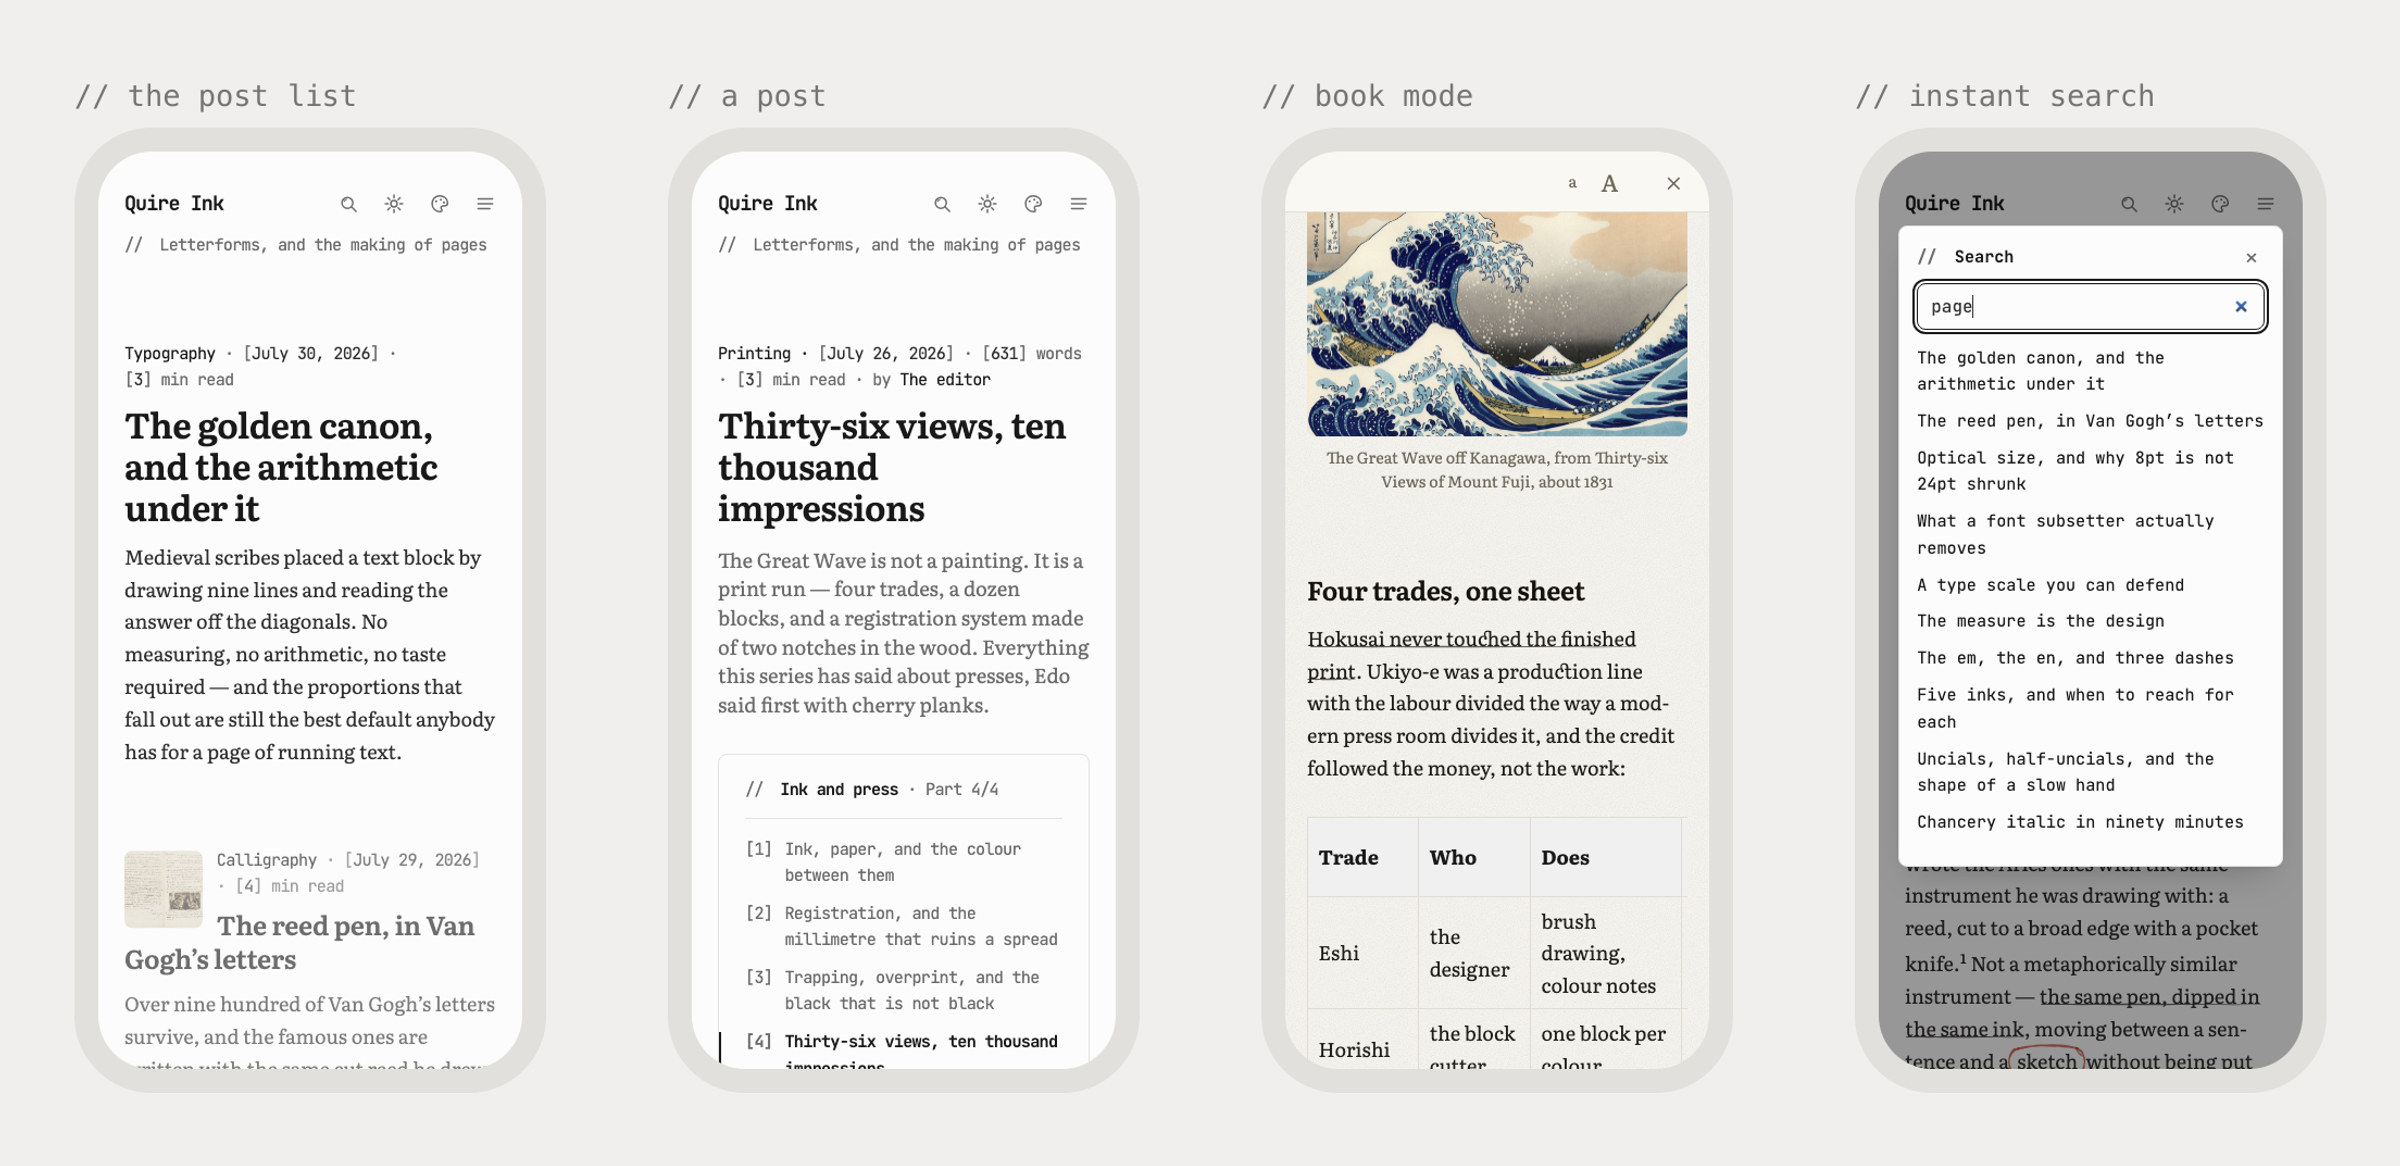
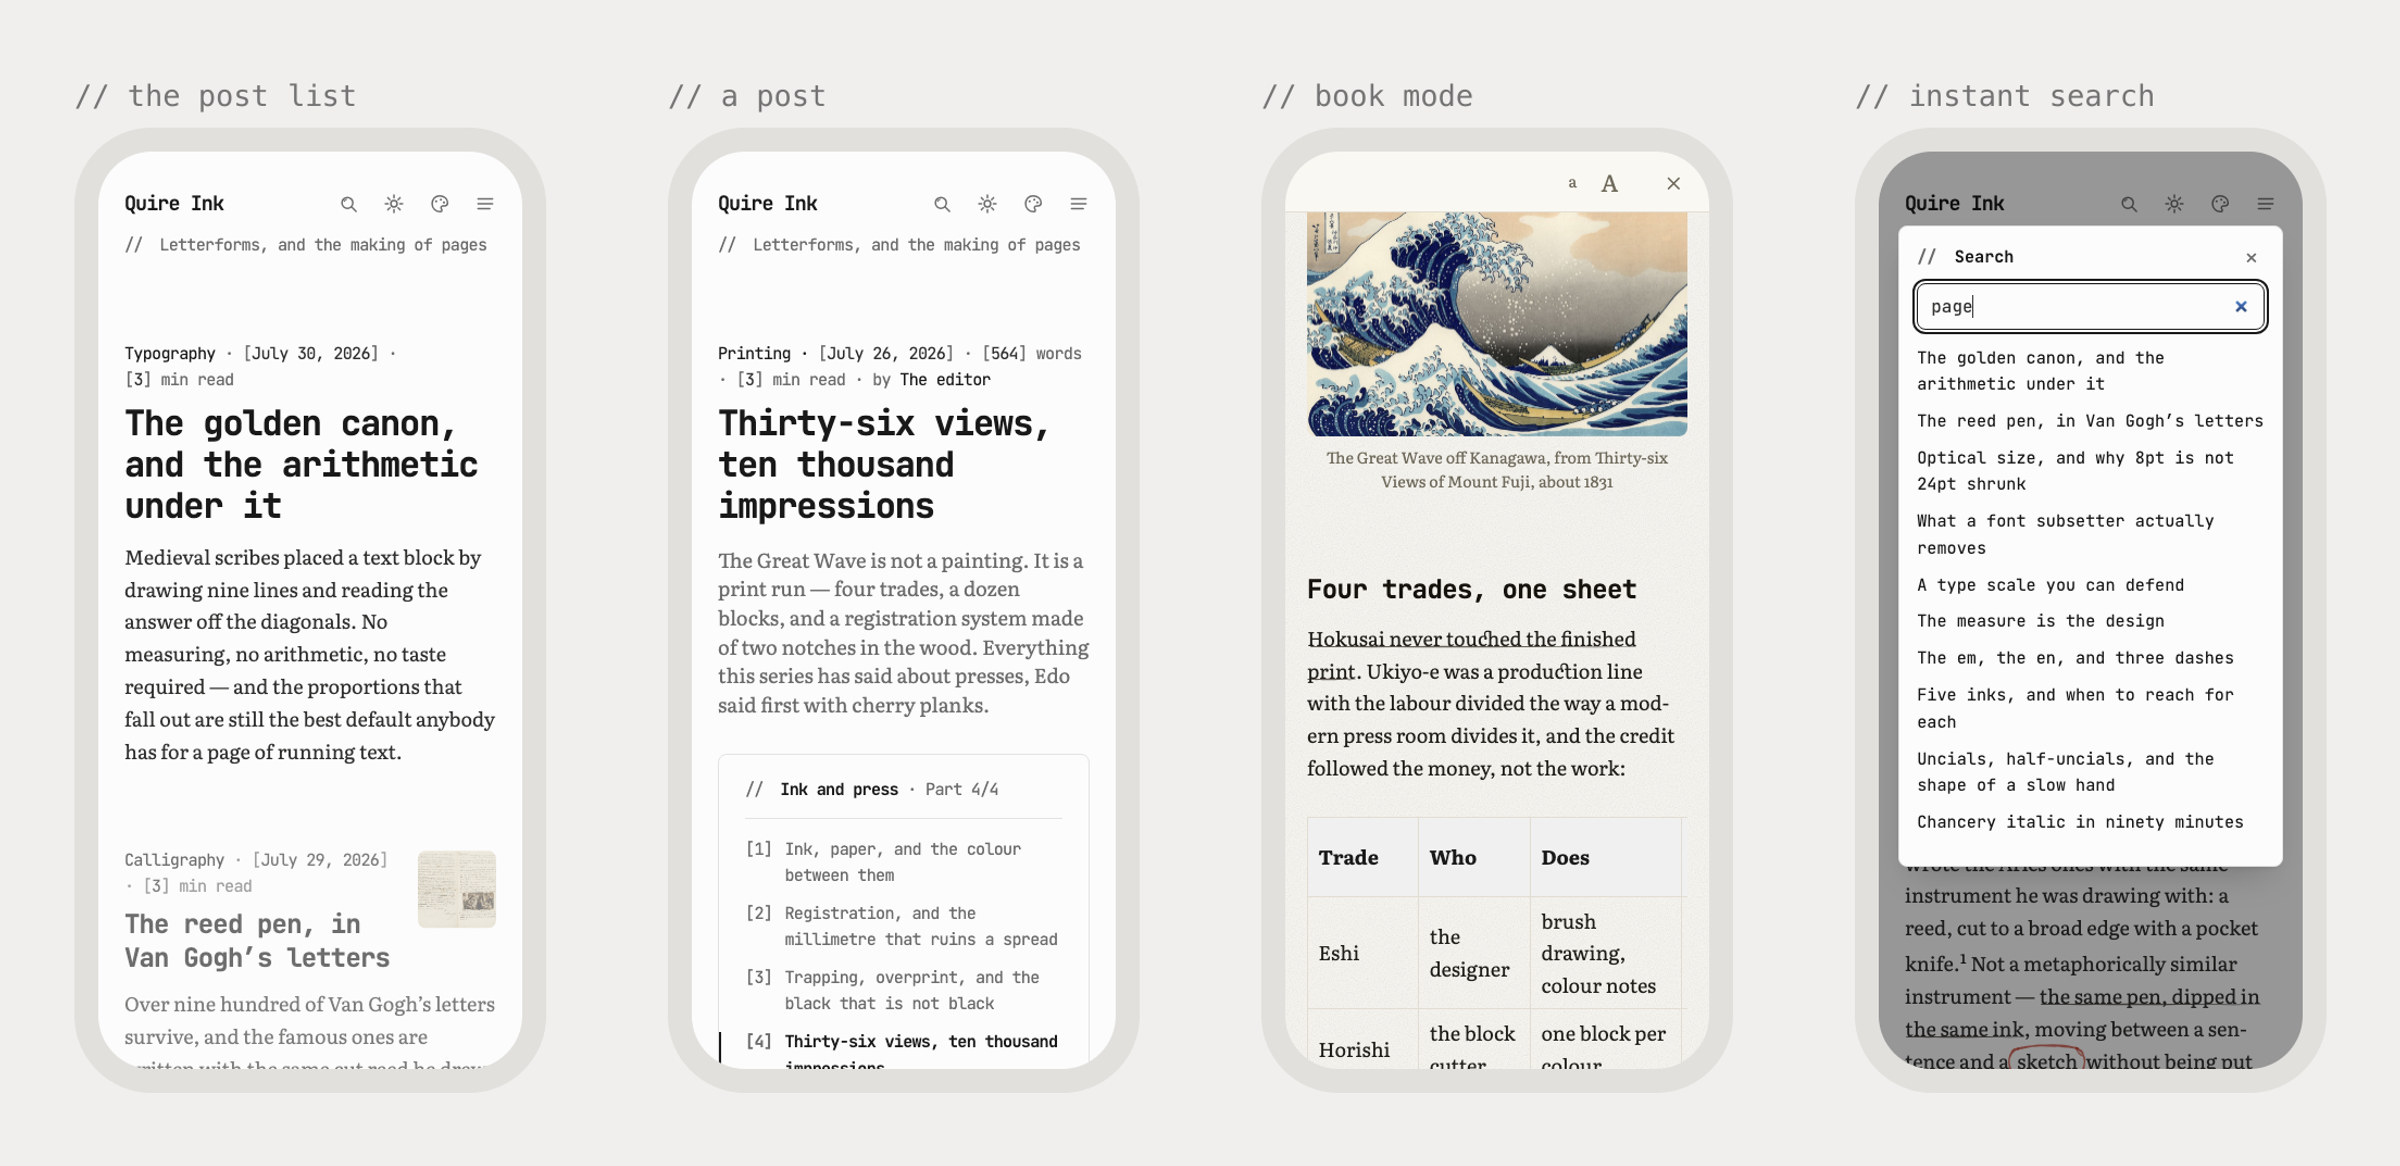
README: a look around, seven plates; the plates reshot for 2.2.14, the four looks added to shoot-readme.sh (set through settings, in the default chrome font) and compose-demo learns COLS

diff --git a/scripts/compose-demo.ts b/scripts/compose-demo.ts
@@ -17,7 +17,7 @@
 // A panel whose page CONTINUES below the fold fades along its bottom edge and draws no bottom
 // border — a hard crop through half a line of type reads as a broken image. `:full` opts out.
 //
-//   bun scripts/compose-demo.ts <out.jpg> <panel.png:label[:phone|:full]> [...]
+//   [COLS=n] bun scripts/compose-demo.ts <out.jpg> <panel.png:label[:phone|:full]> [...]
 
 import sharp from 'sharp'
 import type { OverlayOptions } from 'sharp'
@@ -145,26 +145,35 @@ const bodyH = Math.max(...panels.map((p) => p.h))
 const ragged = panels.filter((p) => p.h !== bodyH)
 if (ragged.length) console.warn(`! ${ragged.length} panel(s) shorter than ${bodyH}px; plate will be ragged`)
 
-const totalW = PAD * 2 + panels.reduce((n, p) => n + p.w, 0) + GAP * (panels.length - 1)
+// COLS wraps the panels into rows (`COLS=2` puts four looks in a square rather than a strip
+// too thin to read). Unset, it is one row, which is every plate before 2026-09-23.
+const cols = Math.max(1, Number(process.env.COLS ?? panels.length) || panels.length)
+const rows: Panel[][] = []
+for (let i = 0; i < panels.length; i += cols) rows.push(panels.slice(i, i + cols))
+const rowW = (r: Panel[]) => r.reduce((n, p) => n + p.w, 0) + GAP * (r.length - 1)
+const totalW = PAD * 2 + Math.max(...rows.map(rowW))
 const labelPx = Math.round(totalW / LABEL_RATIO)
 const LABEL_H = Math.round(labelPx * 1.8)
-const totalH = PAD * 2 + LABEL_H + bodyH
+const totalH = PAD * 2 + rows.length * (LABEL_H + bodyH) + GAP * (rows.length - 1)
 
-let x = PAD
 const labels: string[] = []
 const composite: OverlayOptions[] = []
-for (const p of panels) {
-  // An empty label draws nothing at all: the setup plate labels itself ("Claim this
-  // blog", "Your site"), and a bare comment marker over it read as a typo.
-  if (p.label !== '') labels.push(
-    `<text x="${x}" y="${PAD + LABEL_H - Math.round(labelPx * 0.75)}" fill="${INK}" `
-    + `font-family="JetBrains Mono, ui-monospace, monospace" font-size="${labelPx}">`
-    + `// ${p.label}</text>`,
-  )
-  // Top-aligned, not centred: these are pages, and a page starts at the top.
-  composite.push({ input: p.buf, left: x, top: PAD + LABEL_H })
-  x += p.w + GAP
-}
+rows.forEach((row, r) => {
+  const top = PAD + r * (LABEL_H + bodyH + GAP)
+  let x = PAD
+  for (const p of row) {
+    // An empty label draws nothing at all: the setup plate labels itself ("Claim this
+    // blog", "Your site"), and a bare comment marker over it read as a typo.
+    if (p.label !== '') labels.push(
+      `<text x="${x}" y="${top + LABEL_H - Math.round(labelPx * 0.75)}" fill="${INK}" `
+      + `font-family="JetBrains Mono, ui-monospace, monospace" font-size="${labelPx}">`
+      + `// ${p.label}</text>`,
+    )
+    // Top-aligned, not centred: these are pages, and a page starts at the top.
+    composite.push({ input: p.buf, left: x, top: top + LABEL_H })
+    x += p.w + GAP
+  }
+})
 
 // Rendered to a bitmap at an explicit size first. Handing sharp the SVG directly lets
 // librsvg pick the scale, and it picks one that does not match the canvas.

diff --git a/README.vi.md b/README.vi.md
@@ -47,6 +47,36 @@ Màu, chữ, bố cục trang chủ và menu đều là cài đặt trong trang 
 
 Từng phần, chi tiết và so với các lựa chọn khác: [**Quire Ink, bản đầy đủ**](./docs/overview.vi.md).
 
+## Xem qua
+
+<img src="docs/demo-looks.jpg" alt="Cùng một bài trong bốn lối giao diện: giấy thường; mã nguồn, tiêu đề in chữ đơn cách đậm và ngày trong ngoặc vuông; bài báo, có măng-sét, chuyên mục bên dưới và chữ cái đầu in lớn; sổ tay, trên giấy chấm lưới cạnh một tấm thẻ" width="960">
+
+<sub>**Bốn lối giao diện, một lựa chọn.** Cùng một bài ở dạng giấy thường, mã nguồn, bài báo và sổ tay. Giao diện quyết định hình khối, kiểu chữ và các dấu; màu thì luôn do bảng màu quyết định.</sub>
+
+<img src="docs/demo-reading.jpg" alt="Chế độ đọc sách, bài dàn hai cột như trang in có chữ cái đầu in lớn, cạnh cùng trang đó ở nền tối, cuộn tới một bộ bốn bức tranh" width="960">
+
+<sub>**Chế độ đọc sách và nền tối.** Bài nào cũng mở được thành sách có lật trang; bảng màu nào cũng được vẽ hai lần, cho nền sáng và nền tối.</sub>
+
+<img src="docs/demo-code.jpg" alt="Ba khung: một công thức hiển thị bằng MathML, một khối code tô màu cạnh một bảng, và một đoạn văn được đánh dấu bằng bút nhiều màu" width="960">
+
+<sub>**Công thức, code và cây bút.** Công thức là MathML thật, code được tô màu ngay trên máy chủ, và cây bút tô, gạch chân, khoanh tròn chữ như tay vẽ.</sub>
+
+<img src="docs/demo-reader-pen.jpg" alt="Trái: vệt tô và gạch chì của người đọc trên một bài, thanh bút mở trên câu đang chọn. Phải: tấm thẻ trên vệt tô, có ô ghi chú và một mã giữ các dấu trên mọi thiết bị" width="960">
+
+<sub>**Người đọc cũng cầm bút.** Dấu của họ nằm trong trình duyệt của chính họ, và chỉ đi theo sang thiết bị khác khi họ muốn.</sub>
+
+<img src="docs/demo-mobile.jpg" alt="Bốn màn hình điện thoại: danh sách bài, một bài có hộp loạt bài, chế độ đọc sách trên điện thoại, và tìm kiếm tức thì" width="960">
+
+<sub>**Trên điện thoại:** danh sách bài, một bài viết, chế độ đọc sách và tìm kiếm ngay khi gõ.</sub>
+
+<img src="docs/demo-admin.jpg" alt="Trang quản trị: một bài mở trong trình soạn thảo có thanh công cụ và vết bút, cạnh phần cài đặt Giao diện với bốn lối giao diện vẽ thành thẻ, phông chữ và ô CSS riêng" width="960">
+
+<sub>**Trang quản trị.** Trình soạn thảo bên trái, bên phải là phần cài đặt quyết định site trông ra sao: tất cả đều là tuỳ chọn, không phải viết code.</sub>
+
+<img src="docs/demo-setup.jpg" alt="Ba màn hình cài đặt: nhận blog với ngôn ngữ, tên đăng nhập, email và mật khẩu; đặt tên site kèm múi giờ và địa chỉ; và chọn trang chủ" width="960">
+
+<sub>**Cài đặt lần đầu** là bảy màn ngắn trong trình duyệt, màn cuối đưa bạn thẳng vào trình soạn thảo.</sub>
+
 ## Cài đặt
 
 Bạn cần một tên miền và một máy trỏ được tên miền về; gói VPS rẻ nhất là đủ. Trên VPS có [Bun](https://bun.sh) 1.3 trở lên, một lệnh là tải, build và chạy:

diff --git a/README.md b/README.md
@@ -48,6 +48,36 @@ Colour, type, the shape of the front page and the menu are all settings in the a
 
 Every part, in detail and against the alternatives: [**Quire Ink, in full**](./docs/overview.md).
 
+## A look around
+
+<img src="docs/demo-looks.jpg" alt="The same post in the four looks: plain paper; source code, with the headline in a bold monospace and bracketed dates; newspaper, with a masthead, the sections under it and a drop cap; and notebook, on dot-grid paper beside an index card" width="960">
+
+<sub>**Four looks, one setting.** The same post as plain paper, source code, a newspaper and a notebook. A look sets shape, type and marks; the colour always comes from the palette.</sub>
+
+<img src="docs/demo-reading.jpg" alt="Book mode, the post set in two columns like a printed page with a drop cap, beside the same site in the dark theme scrolled to a four-painting gallery" width="960">
+
+<sub>**Book mode and the dark theme.** Any post opens as a paginated book; every palette is drawn twice, once for light and once for dark.</sub>
+
+<img src="docs/demo-code.jpg" alt="Three panels: a formula rendered as MathML in the reading face, a highlighted code block beside a table, and a paragraph marked with the pen in several inks" width="960">
+
+<sub>**Maths, code and the pen.** Formulas are real MathML, code is highlighted on the server, and the pen highlights, underlines and rings words by hand.</sub>
+
+<img src="docs/demo-reader-pen.jpg" alt="Left: a reader's highlight and pencil underline on a post, with the pen bar open over a selected sentence. Right: the card over a highlight, with a note box and a code that keeps the marks on every device" width="960">
+
+<sub>**Readers get the pen too.** Their marks stay in their own browser, and travel between their devices only if they ask.</sub>
+
+<img src="docs/demo-mobile.jpg" alt="Four phone screens: the post list, a post with its series box, book mode on a phone, and instant search" width="960">
+
+<sub>**On a phone,** the list, a post, book mode and search as you type.</sub>
+
+<img src="docs/demo-admin.jpg" alt="The admin: a post open in the editor with the toolbar and pen marks, beside the Appearance settings with the four looks drawn as tiles, the fonts and the custom CSS box" width="960">
+
+<sub>**The admin.** The editor on the left, and on the right the settings that decide how the site looks: all of it a setting, none of it code.</sub>
+
+<img src="docs/demo-setup.jpg" alt="Three setup screens: claiming the blog with a language, username, email and password; naming the site with its time zone and address; and choosing the front page" width="960">
+
+<sub>**Setting up** is seven short screens in the browser, and the last one drops you in the editor.</sub>
+
 ## Install
 
 You need a domain and a machine you can point it at; the cheapest VPS tier is enough. On a VPS with [Bun](https://bun.sh) 1.3 or newer, one command clones, builds and starts it:

diff --git a/docs/overview.vi.md b/docs/overview.vi.md
@@ -67,13 +67,13 @@ bun --smol src/index.ts
 
 <div align="center">
 
-<img src="demo-looks.jpg" alt="Cùng một bài viết trong bốn lối giao diện: giấy trơn, mã nguồn với khung ngoặc vuông và số dòng, báo in với măng sét và một mục đã đánh số, và sổ tay với dòng kẻ chạy sau chữ" width="960">
+<img src="demo-looks.jpg" alt="Cùng một bài viết trong bốn lối giao diện: giấy trơn; mã nguồn, tiêu đề in chữ đơn cách đậm và khung ngoặc vuông; báo in, có măng sét, chuyên mục bên dưới và chữ cái đầu in lớn; và sổ tay, trên giấy chấm lưới cạnh một tấm thẻ" width="960">
 
 <sub>Một bài, bốn lối, một bảng màu. Lối quyết định hình dáng, kiểu chữ và các dấu; còn màu trên cả bốn đều lấy từ bảng màu, nên đổi bảng màu là cả bốn đổi theo.</sub>
 
-<img src="demo-admin.jpg" alt="Trang quản trị Quire Ink: một bài mở trong trình soạn với câu gạch chì, chữ khoanh đỏ, câu tô sáng và bức thư tay đóng khung; bên cạnh là trang cấu hình Giao diện với bốn lối, bốn font đọc, các nút chỉnh hình dáng và dải bảng màu" width="960">
+<img src="demo-admin.jpg" alt="Trang quản trị Quire Ink: một bài mở trong trình soạn với câu gạch chì, chữ khoanh đỏ, câu tô sáng và bức thư tay đóng khung; bên cạnh là trang cấu hình Giao diện với bốn lối vẽ thành thẻ, bốn font đọc, font khung trang và ô CSS riêng" width="960">
 
-<sub>Trang quản trị như 2.2.13 vẽ nó: trang do máy chủ dựng, không framework. Mọi thứ bên phải, kể cả bốn lối giao diện, đều là tuỳ chọn bấm chọn chứ không phải code, và khung trên cả hai màn đang mặc một trong số đó.</sub>
+<sub>Trang quản trị như 2.2.14 vẽ nó: trang do máy chủ dựng, không framework. Mọi thứ bên phải, kể cả bốn lối giao diện, đều là tuỳ chọn bấm chọn chứ không phải code, và khung trên cả hai màn đang mặc một trong số đó.</sub>
 
 </div>
 

diff --git a/docs/overview.md b/docs/overview.md
@@ -67,7 +67,7 @@ bun --smol src/index.ts
 
 <div align="center">
 
-<img src="demo-looks.jpg" alt="The same article in four looks: plain paper, source code with bracketed furniture and line numbers, a newspaper with a masthead and a numbered section, and a notebook sheet ruled behind the text" width="960">
+<img src="demo-looks.jpg" alt="The same article in four looks: plain paper; source code, with the headline in a bold monospace and bracketed furniture; a newspaper, with a masthead, the sections under it and a drop cap; and a notebook, on dot-grid paper beside an index card" width="960">
 
 <sub>One post, four looks, one palette. The look decides shape, type and marks; every colour on all four comes from the palette, so changing it moves all of them together.</sub>
 
@@ -124,9 +124,9 @@ The CSS and JavaScript rows are build artefacts, the same bytes on every install
 
 <sub>None of this is for a benchmark. It is for someone on a four-year-old phone who wanted to read four hundred words.</sub>
 
-<img src="demo-admin.jpg" alt="The Quire Ink admin: a post open in the editor with a pencil underline, a red ring and a highlighted sentence, beside the Appearance settings showing the four looks, the reading fonts, the shape controls and the colour presets" width="960">
+<img src="demo-admin.jpg" alt="The Quire Ink admin: a post open in the editor with a pencil underline, a red ring and a highlighted sentence, beside the Appearance settings showing the four looks as drawn tiles, the reading fonts, the chrome font and the custom CSS box" width="960">
 
-<sub>The admin as 2.2.13 draws it: server-rendered pages, no framework. Everything on the right, the four looks included, is a setting rather than code, and the chrome on both screens is wearing one of them.</sub>
+<sub>The admin as 2.2.14 draws it: server-rendered pages, no framework. Everything on the right, the four looks included, is a setting rather than code, and the chrome on both screens is wearing one of them.</sub>
 
 </div>
 
